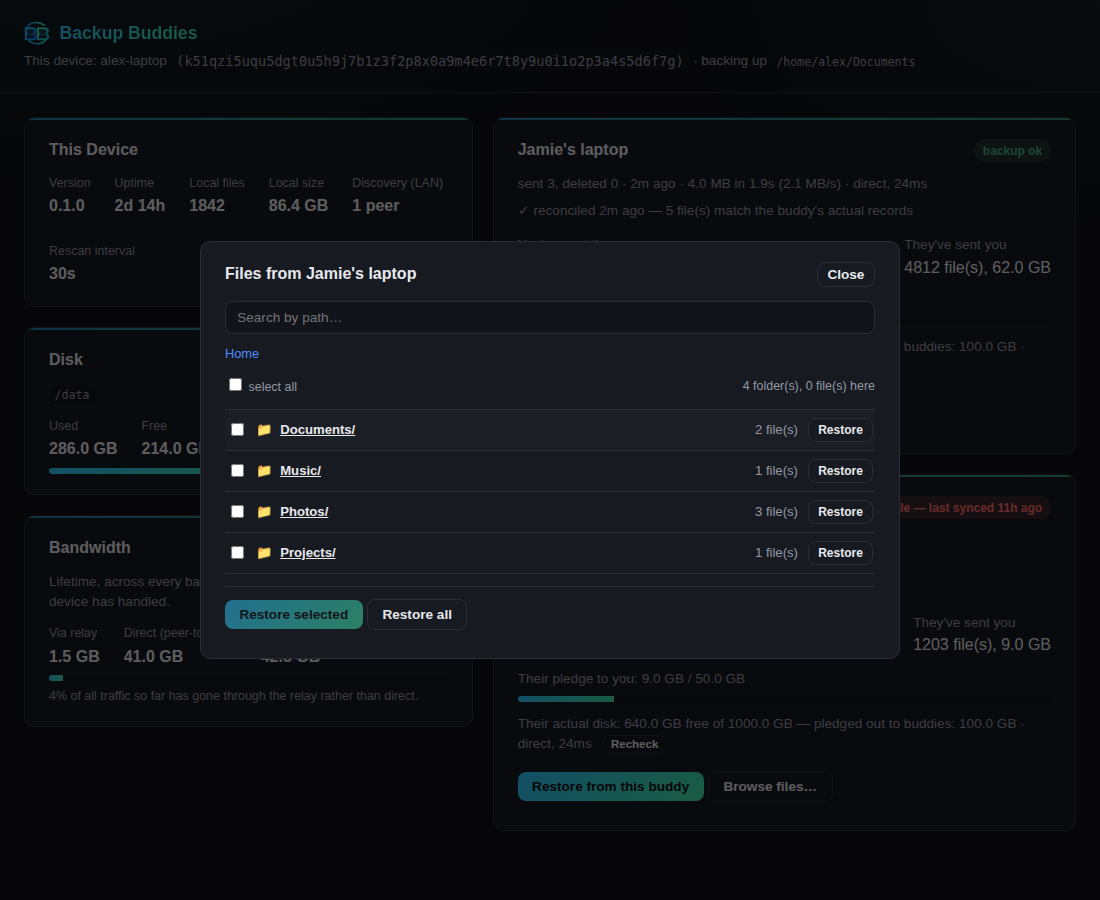
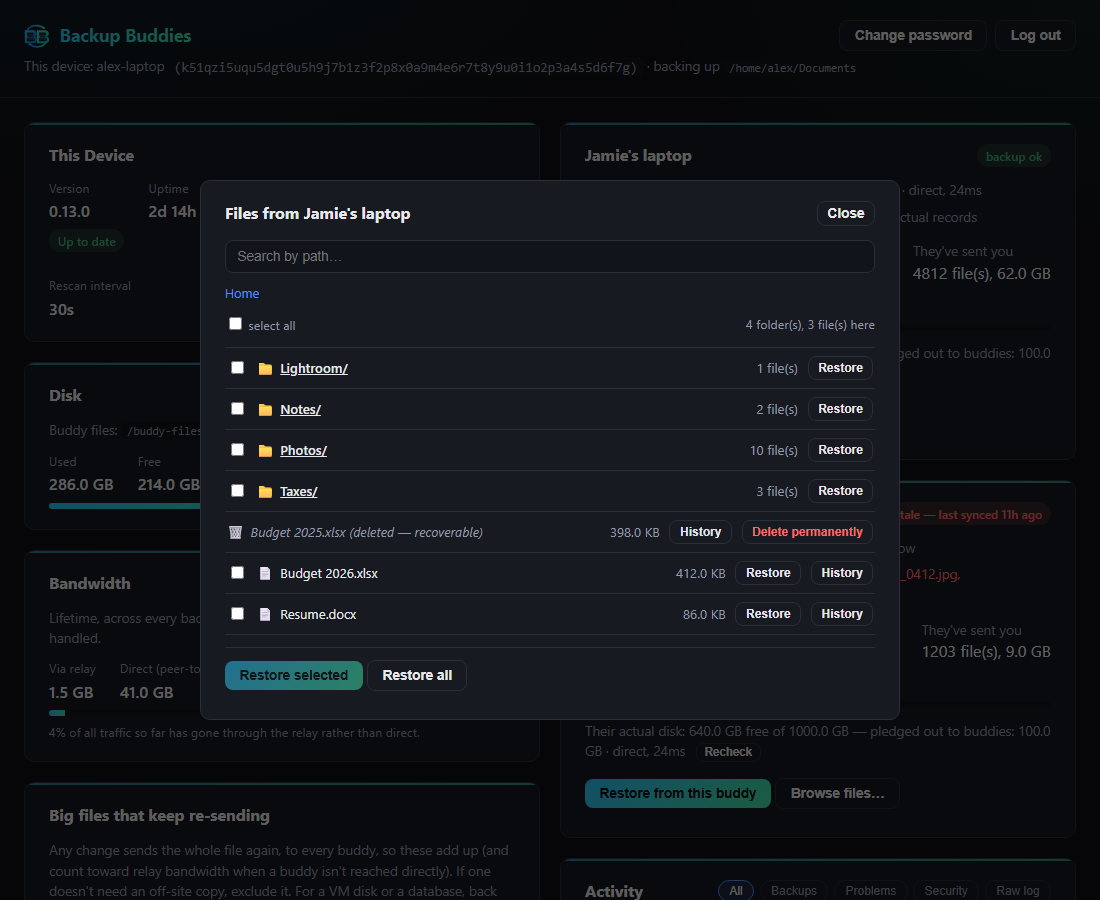
Site: refresh client screenshots, add Activity and Exclusions slides
Carousel now has five slides, all regenerated from the current
dashboard.rs HTML with mock data in the same demo personas (alex-laptop,
Jamie's laptop, Mom's desktop) via a throwaway local server and headless
Chrome at 1100x900 (not checked in): overview (now with the login
buttons, excluded count and wider layout), the new Activity card, the
re-sending list and Exclusions editor, the file browser, and version
history.

Feature status: Activity log and re-send warning added to Available, the
Dashboard entry mentions them. Setup page and client README list the
exclude list, Activity log and re-send warning.

diff --git a/apps/web/setup.html b/apps/web/setup.html
@@ -213,11 +213,12 @@ cd backup-buddies-client</code></pre>
           <h3>Does</h3>
           <ul>
             <li>Scans your folder roughly every 30 seconds and sends only what's new or changed — unchanged files aren't re-sent each cycle</li>
+            <li>Skips files that are a poor fit by default (Outlook PST/OST, live database files, VM disks, temp files) and anything else you list in <code>excludes.txt</code> in its config folder, or in the Exclusions card on its dashboard</li>
             <li>Mirrors deletions too, so your buddy's copy matches yours rather than only ever growing</li>
             <li>Encrypts everything with your <code>BACKUP_PASSPHRASE</code> before it ever leaves this machine — your buddy's device only ever stores ciphertext</li>
             <li>Connects directly to your buddy's device when possible — including finding them automatically on the same local network and connecting over it, never touching the relay — falling back to the relay automatically when a direct connection isn't possible</li>
             <li>Keeps a backstop when a file is overwritten or deleted — the live copy plus its last 2 replaced versions are kept on your buddy's disk, so a bad overwrite or an accidental local delete isn't necessarily final</li>
-            <li>A local status dashboard (<code>http://&lt;this device&gt;:8080</code>, behind a login: <code>DASHBOARD_PASSWORD</code> from <code>.env</code> the first time, then change it from the dashboard) showing per-buddy pledge usage, sent/received totals, last cycle result, a file browser with per-file version history, and one-click restore — restored files are never written back over your live folder; they land in your restore folder under <code>&lt;buddy&gt;/</code>, and the dashboard shows the exact path once a restore finishes</li>
+            <li>A local status dashboard (<code>http://&lt;this device&gt;:8080</code>, behind a login: <code>DASHBOARD_PASSWORD</code> from <code>.env</code> the first time, then change it from the dashboard) showing per-buddy pledge usage, sent/received totals, last cycle result, an Activity log of what happened, big files that keep re-sending, a file browser with per-file version history, and one-click restore — restored files are never written back over your live folder; they land in your restore folder under <code>&lt;buddy&gt;/</code>, and the dashboard shows the exact path once a restore finishes</li>
             <li>Enforces your buddy's pledge — won't accept more from them than they've pledged to store</li>
           </ul>
         </div>

diff --git a/apps/web/index.html b/apps/web/index.html
@@ -133,9 +133,10 @@
     <section class="screenshots">
       <h2>What the client looks like</h2>
       <p class="muted">
-        Every device also runs its own local dashboard — disk, bandwidth, and
-        each buddy's pledge at a glance, plus a file browser to restore
-        anything (or roll back to an earlier version).
+        Every device also runs its own local dashboard, behind its own login:
+        disk, bandwidth and each buddy's pledge at a glance, a running log of
+        what happened, what to leave out of the backup, and a file browser to
+        restore anything (or roll back to an earlier version).
       </p>
       <div class="carousel" id="client-carousel">
         <div class="carousel-viewport">
@@ -143,6 +144,14 @@
           <figure class="carousel-slide">
             <img src="/assets/screenshots/client-overview.png" alt="Client dashboard overview, showing device info, disk usage, bandwidth, and each buddy's backup status" loading="lazy">
             <figcaption>Overview — device info, disk, bandwidth, and every buddy's pledge in one place</figcaption>
+          </figure>
+          <figure class="carousel-slide">
+            <img src="/assets/screenshots/client-activity.png" alt="Activity card listing recent backups, a buddy going offline and coming back, restores and logins" loading="lazy">
+            <figcaption>Activity — what was sent, removed, restored or refused, and when a buddy dropped off or came back</figcaption>
+          </figure>
+          <figure class="carousel-slide">
+            <img src="/assets/screenshots/client-exclusions.png" alt="Exclusions editor and a list of big files that keep re-sending, each with an Exclude button" loading="lazy">
+            <figcaption>Exclusions — leave files out with Syncthing-style patterns, and spot big files that keep re-sending</figcaption>
           </figure>
           <figure class="carousel-slide">
             <img src="/assets/screenshots/client-browse.png" alt="File browser modal showing a buddy's backed-up folders" loading="lazy">

diff --git a/apps/client/README.md b/apps/client/README.md
@@ -11,7 +11,8 @@ bookkeeping; this is the piece that does the real work.
 API who your paired buddies' devices are, then — if this device has
 `BACKUP_DIR` set (which `docker-compose.yml` always does; it just points
 at an empty, read-only folder when you haven't set `BACKUP_DIR_HOST`) —
-scans that folder, encrypts anything new or changed with
+scans that folder (skipping anything on the exclude list, see "Excluding
+files"), encrypts anything new or changed with
 `BACKUP_PASSPHRASE`, and sends just the diff to each buddy's device.
 Deleted files are told apart too, so your buddy's copy mirrors yours
 rather than only ever growing. A receive-only device (no `BACKUP_DIR_HOST`
@@ -203,6 +204,12 @@ There's also a "Restore from this buddy" button, which does the same
 thing as the `restore` command below and writes to the same place
 (`RESTORE_DIR_HOST/<their node id>/`), showing you the result right there
 instead of needing a terminal.
+
+It also has: a file browser with older versions of each file, an
+**Activity** log of what happened (see below), the **Exclusions** editor
+and a list of big files that keep re-sending (see "Excluding files"), and
+the device's disk and bandwidth. It's behind a login set in `.env` (see
+"Logging in").
 
 ### Activity (0.13.0)
 
